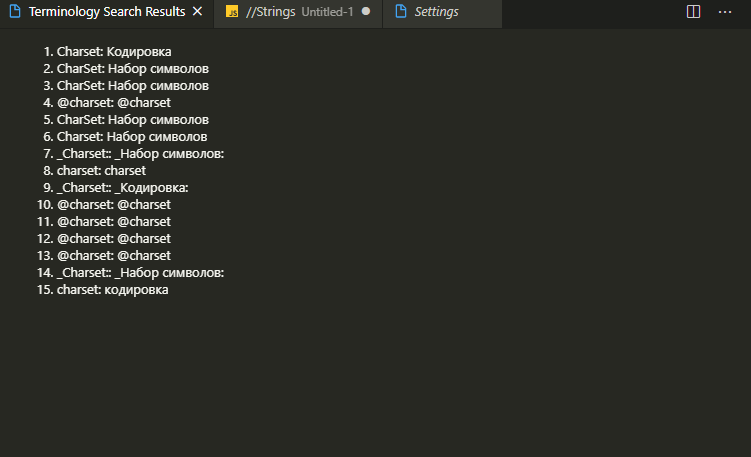
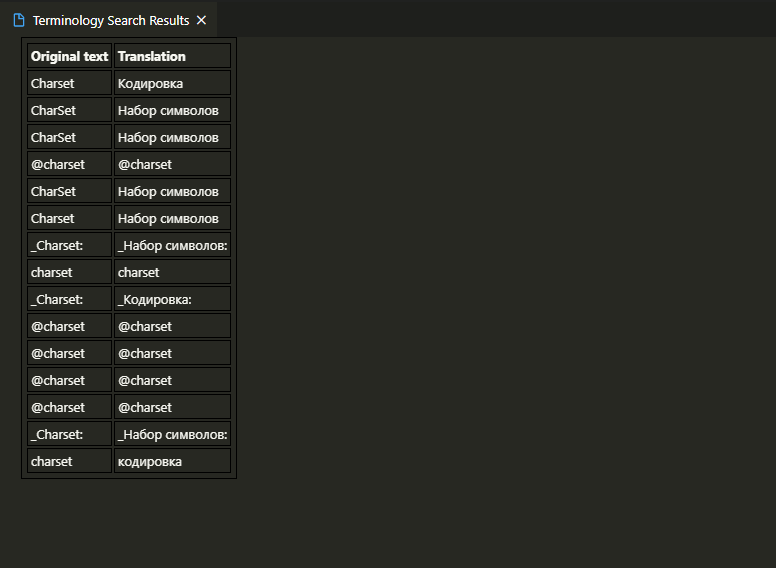
render search results as a table

diff --git a/extension.js b/extension.js
@@ -101,12 +101,21 @@ function getWebviewContent(translations) {
 <head>
   <meta charset="UTF-8">
   <meta name="viewport" content="width=device-width, initial-scale=1.0">
+  <style>
+    table, th, td {
+      border: 1px solid black;
+    }
+    th, td {
+      text-align: left;
+    }
+  </style>
   <title>Terminology Search Results</title>
 </head>
 <body>
-  <ol>
-    ${translations.map(t => `<li>${t.text}: ${t.translation}</li>`).join('\n')}
-  </ol>
+  <table>
+    <thead><tr><th>Original text</th><th>Translation</th></tr></thead>
+    ${translations.map(t => `<tr><td>${t.text}</td><td>${t.translation}</td></tr>`).join('\n')}
+  </table>
 </body>
 </html>`;
 }
